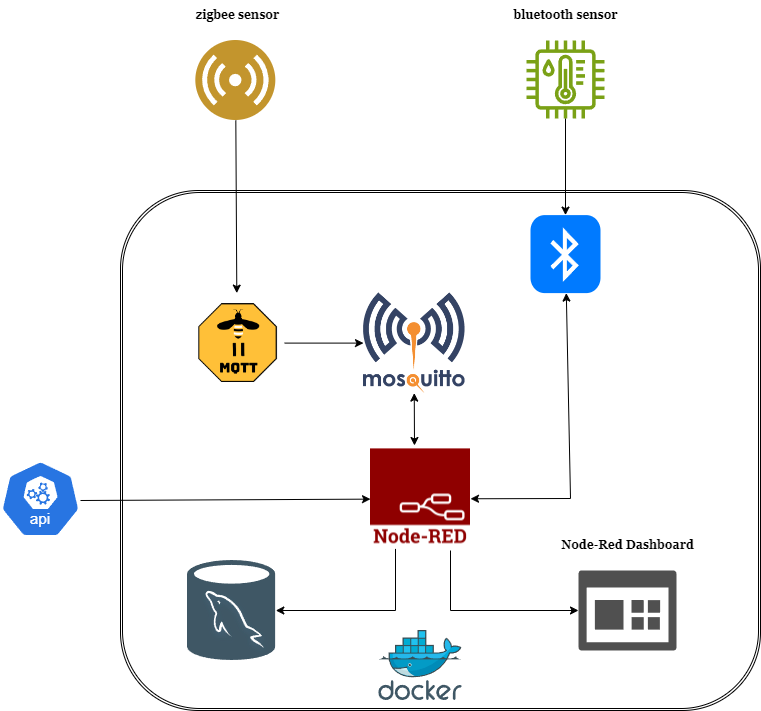
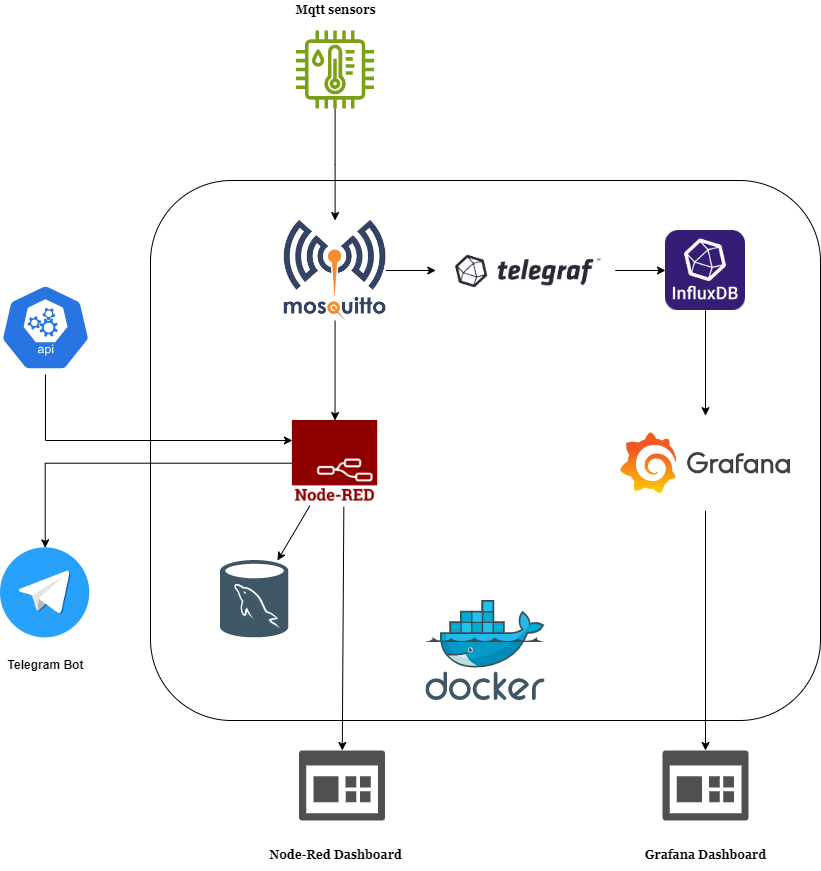
update readme

diff --git a/README.md b/README.md
@@ -19,8 +19,14 @@ This project is designed to be a personal home automation software with the focu
 **Eclipse Mosquitto**
 [link](https://mosquitto.org/)
 
-**Zigbee2MQTT:** 
-[link](https://www.zigbee2mqtt.io/)
+**Grafana:** 
+[link](https://www.grafana.com/)
+
+**Influxdb:** 
+[link](https://www.influxdata.com/)
+
+**Telegram:** 
+[link](https://www.telegram.org/)
 
 **Weather api**
 [link](https://www.weatherapi.com/)
